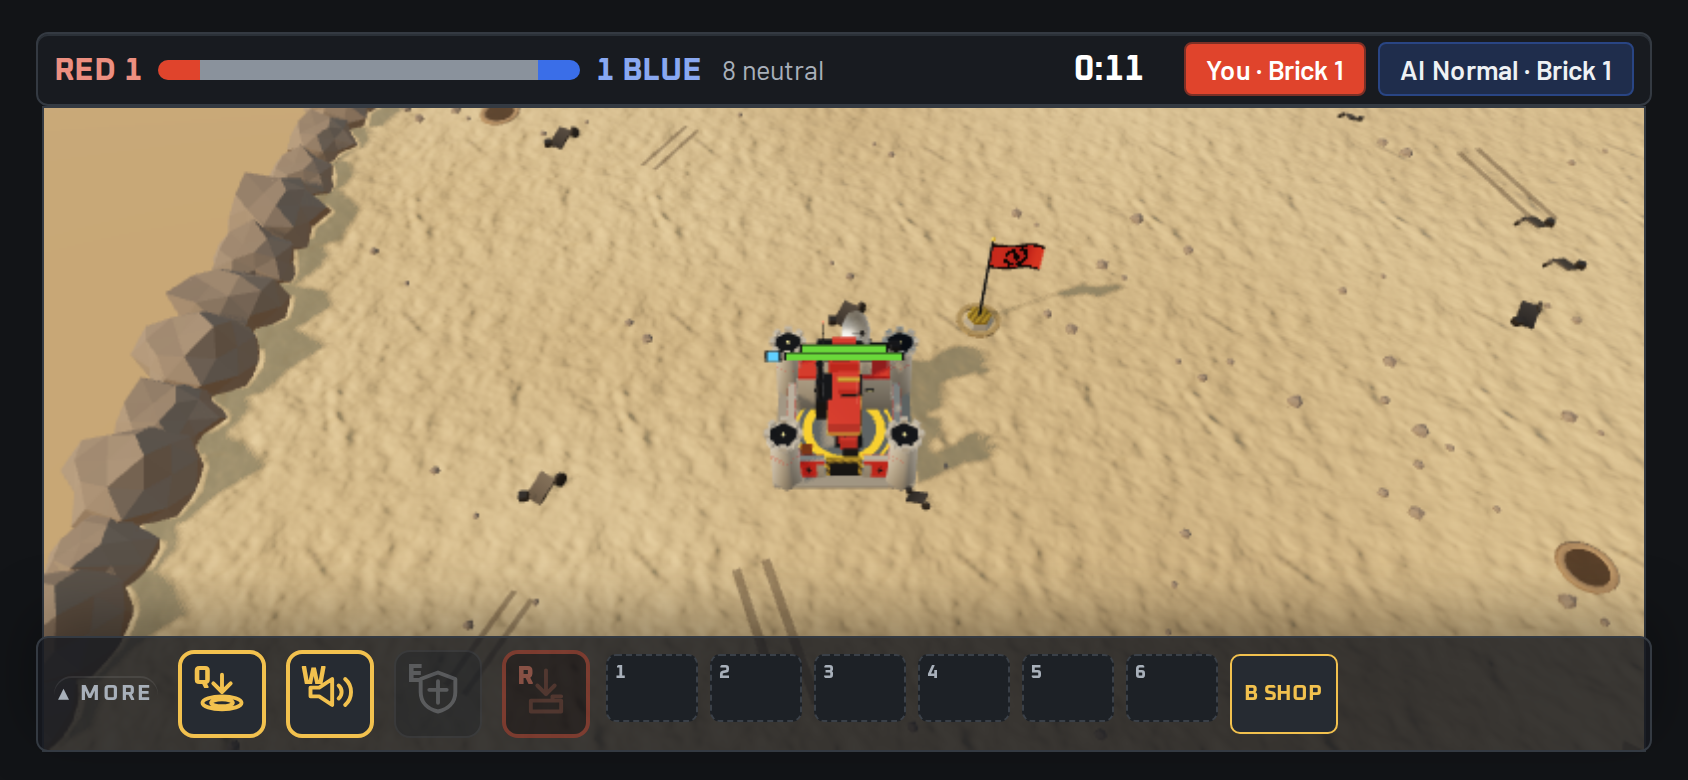
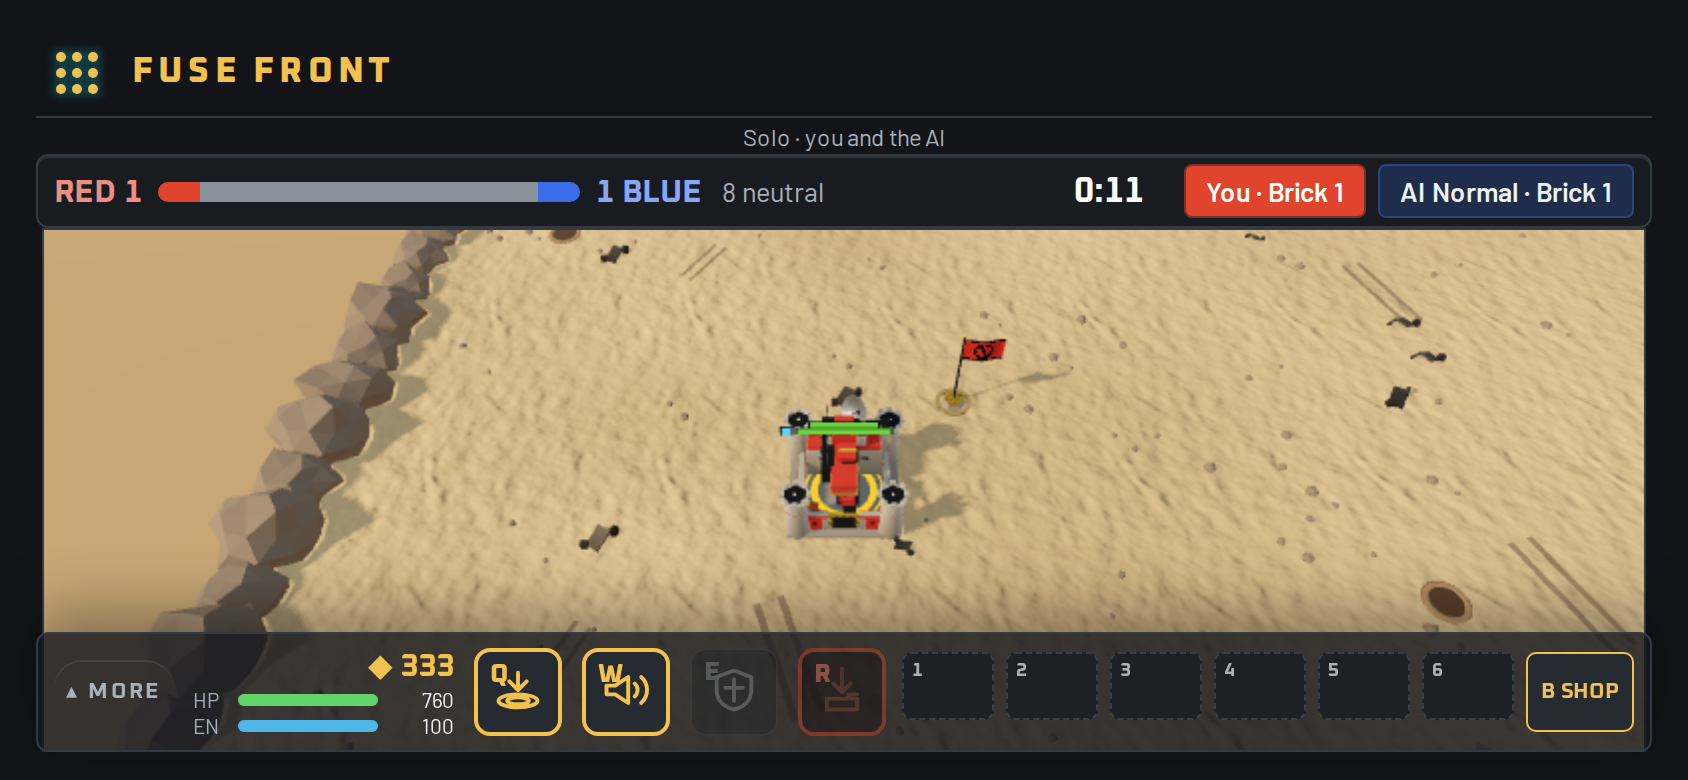
Fuse Front M7b: review fixes — pinch clamp takes the aspect, header and status stay slim, death and end over the open panel, landscape bars, drawer target and reset

diff --git a/games/fuse-front/src/app/style.css b/games/fuse-front/src/app/style.css
@@ -1004,8 +1004,18 @@ body.fui-app {
   #app.ff-in-match {
     padding: 4px 6px 0;
   }
-  #app.ff-in-match > :is(.ff-top, .ff-status) {
-    display: none;
+  /* The header (the way out) and the room's status stay, as one slim line each. */
+  #app.ff-in-match > .ff-top {
+    gap: 8px;
+    padding-bottom: 2px;
+  }
+  #app.ff-in-match > .ff-status {
+    margin: 2px 0;
+    font-size: 0.75rem;
+  }
+  /* Over the open panel: the respawn countdown and the end of the match with its way back to the lobby. */
+  .ff-in-match :is(.ff-death, .ff-end) {
+    z-index: 3;
   }
   .ff-in-match .ff-play {
     position: relative;
@@ -1026,18 +1036,21 @@ body.fui-app {
     right: 0;
     bottom: 0;
     z-index: 2;
-    max-height: 70%;
-    overflow-y: auto;
     gap: 6px 10px;
     padding: 6px 8px;
     background: rgba(22, 25, 30, 0.82);
+  }
+  /* Open, it scrolls within most of the board; folded it doesn't clip the spells' tooltips above it. */
+  .ff-in-match .ff-panel.ff-open {
+    max-height: 70%;
+    overflow-y: auto;
   }
   #app.ff-in-match .ff-drawer {
     display: block;
     order: -1;
     flex: 1 1 100%;
-    min-height: 0;
-    padding: 2px;
+    min-height: 32px;
+    padding: 6px;
     border: 0;
     background: none;
     color: var(--ff-muted);
@@ -1076,13 +1089,23 @@ body.fui-app {
     display: none;
   }
 }
-/* A phone on its side: the folded panel is one row of spells and items, the hero's bars on the board above. */
+/*
+ * A phone on its side (or a window under 500 px tall): the folded panel is one row, the bars (name, gold, hit points
+ * and energy) beside the spells and items.
+ */
 @media (max-height: 500px) {
   .ff-in-match .ff-panel:not(.ff-open) {
     flex-wrap: nowrap;
     align-items: center;
   }
   .ff-in-match .ff-panel:not(.ff-open) > .ff-bars {
+    flex: 0 1 170px;
+    min-width: 120px;
+    grid-template-columns: 18px 1fr 34px;
+    gap: 1px 4px;
+    font-size: 0.65rem;
+  }
+  .ff-in-match .ff-panel:not(.ff-open) .ff-head > :not(.ff-purse) {
     display: none;
   }
   .ff-in-match .ff-panel:not(.ff-open) .ff-kit {

diff --git a/games/fuse-front/src/app/hud.ts b/games/fuse-front/src/app/hud.ts
@@ -217,13 +217,19 @@ export class Hud {
     kit.append(spells, items);
     const stance = el("div", "", "ff-stance");
     stance.append(toggles);
-    this.drawer.setAttribute("aria-expanded", "false");
-    this.drawer.onclick = () => {
-      const open = this.bottom.classList.toggle("ff-open");
-      this.drawer.textContent = open ? "▾ LESS" : "▴ MORE";
-      this.drawer.setAttribute("aria-expanded", String(open));
-    };
+    this.bottom.id = "ff-panel";
+    this.drawer.setAttribute("aria-controls", this.bottom.id);
+    this.drawer.onclick = () =>
+      this.unfold(!this.bottom.classList.contains("ff-open"));
+    this.unfold(false);
     this.bottom.append(this.portrait, bars, kit, stance, map, this.drawer);
+  }
+
+  /** Opens (or folds) the phone's panel (`style.css`); a match starts folded. */
+  unfold(open: boolean): void {
+    this.bottom.classList.toggle("ff-open", open);
+    this.drawer.textContent = open ? "▾ LESS" : "▴ MORE";
+    this.drawer.setAttribute("aria-expanded", String(open));
   }
 
   /** Writes `value` through `apply` only when it differs from the last value written under `key`. */

diff --git a/games/fuse-front/src/app/main.ts b/games/fuse-front/src/app/main.ts
@@ -285,12 +285,15 @@ function room(code: string, token: string | undefined, display: boolean): void {
   let lobbyKey = "";
   // The seat whose hero the lobby's cards show: this device's, or one the host chose from the team chips.
   let picking = -1;
+  let wasLobby = true;
   function show(view: View): void {
     const inLobby = view.stage === "lobby";
     lobby.hidden = !inLobby;
     play.hidden = inLobby;
     // A phone drops the page header in a match, so the board gets the height (`style.css`).
     app.classList.toggle("ff-in-match", !inLobby);
+    if (!inLobby && wasLobby) hud.unfold(false);
+    wasLobby = inLobby;
     if (inLobby) {
       const slots = slotsOf(view, runtime.self);
       if (!slots.some((s) => s.slot === picking))

diff --git a/games/fuse-front/tests/render3d.test.ts b/games/fuse-front/tests/render3d.test.ts
@@ -166,6 +166,10 @@ test("an upright phone's narrow view keeps a hero by the map's west edge in the 
   rig.clampRig(edge, 176, 176, aspect);
   const half = 23 * Math.tan((rig.FOV * Math.PI) / 360) * aspect;
   assert.ok(Math.abs(edge.x - half) < 1e-9);
+  // A pinch about the middle of the phone's view keeps the same clamp: the hero doesn't jump off the edge.
+  const pinch: rig.Rig = { x, z: 166, distance: 23 };
+  rig.zoomRigAt(pinch, 1.1, 0, 0, aspect, 176, 176);
+  assert.ok(Math.abs(pinch.x - x) < 1e-9, `${pinch.x}`);
 });
 
 test("the zoom-out limit grows with the map until a big map fits the 4:3 board", () => {

diff --git a/games/fuse-front/src/render3d/rig.ts b/games/fuse-front/src/render3d/rig.ts
@@ -155,5 +155,5 @@ export function zoomRigAt(rig: Rig, factor: number, nx: number, ny: number, aspe
     rig.x += before.x - after.x;
     rig.z += before.z - after.z;
   }
-  clampRig(rig, width, height);
+  clampRig(rig, width, height, aspect);
 }

diff --git a/games/fuse-front/docs/design.md b/games/fuse-front/docs/design.md
@@ -834,22 +834,26 @@ Brick on Brick is unchanged at 8, 8 and 7.
 **M7 as built: the phone layout (M7b).** At 390 px wide the board was 160 px tall under the stacked panel. The hero
 could open off the screen, because the camera kept its target as far from the map's west edge as a 5:3 view needs.
 
-- **Layout (`style.css`, at most 720 px wide or 500 px tall, in a match):**
-  - The page header and status line go, so the board takes the screen below the top bar.
+- **Layout (`style.css`, at most 720 px wide or 500 px tall, in a match):** a desktop window under 500 px tall gets
+  it too.
+  - The header (the way out) and the room's status shrink to one slim line each.
   - The bottom panel lies over the board's foot, folded to the name and gold, hit points, energy, spells and items.
-  - MORE opens the rest: the portrait, XP, target, order toggles and minimap.
-  - On its side, the folded panel is one row of spells and items.
+  - MORE opens the rest: the portrait, XP, target, order toggles and minimap. A match starts folded.
+  - The respawn countdown and the end screen stand above the open panel.
+  - On its side, the folded panel is one row: gold, hit points and energy, then the spells and items.
+  - The aim hint under the board is hidden. The board's own cursor and aim overlay still show what a click will do.
 - **Fit:** `fit` in `main.ts` leaves the panel out of the board's height when it lies over the board.
-- **Camera:** `clampRig` takes the view's aspect. A narrower view may bring its target as close to the edge as its
-  half-width, so a hero by a fort on the map's west edge opens in the middle of the screen. A 5:3 or wider view
-  clamps as before.
+- **Camera:** `clampRig` takes the view's aspect, and so does `zoomRigAt`'s clamp after a pinch.
+  - A narrower view may bring its target as close to the edge as its half-width. A hero by a fort on the map's west
+    edge opens in the middle of the screen and stays there through a pinch.
+  - A 5:3 or wider view clamps as before.
 - **Shots:** `preview/phone-shot.mjs` shoots 390×844 and 844×390. It checks the following:
   - nothing scrolls either way, with the panel folded or open;
-  - the board takes most of the screen (752 and 323 px tall);
+  - the board takes most of the screen (691 and 262 px tall in these shots);
   - the board's middle is the hero's fort.
 - `preview/hud-layout-shot.mjs` still finds one panel row at 1100–1600 px. `preview/moba-shot.mjs` opens MORE before
   its phone checks.
 
 ![390×844: the board under the top bar, the folded panel over its foot](images/phone-portrait.png)
 
-![844×390: one row of spells and items](images/phone-landscape.png)
+![844×390: one row of gold, bars, spells and items](images/phone-landscape.png)
